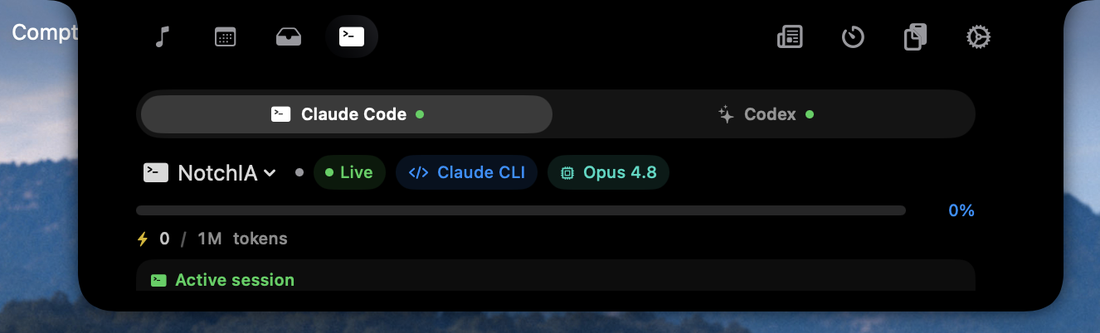
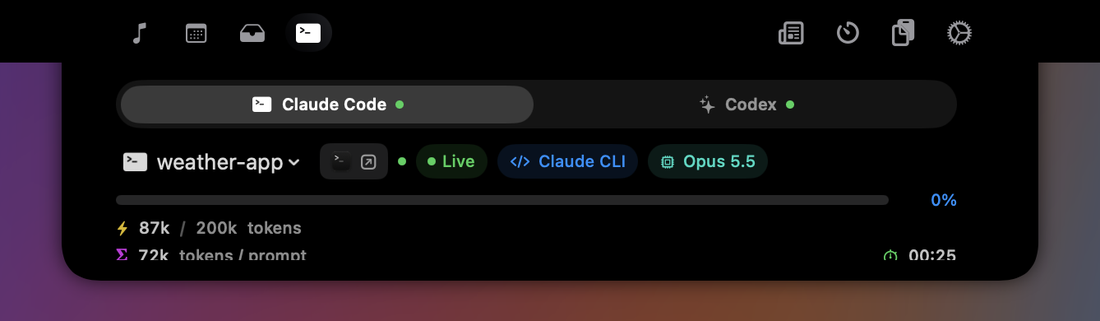
Capture 01 refaite : onglet IA sur NotchIA 2.9.27
Session Claude Code de démo (projet fictif weather-app, Opus 5.5) à la place de l'ancienne
capture (Opus 4.8). Dimensions mises à jour sur les 13 pages qui l'affichent.

diff --git a/press.html b/press.html
@@ -121,7 +121,7 @@
   <h2 data-i18n="screens.title">Screenshots</h2>
   <p data-i18n="screens.note">Ready to publish, no credit required beyond “NotchIA”. Click a screenshot to download the full-resolution PNG.</p>
   <div class="screens-grid">
-    <figure><a href="press-kit/screenshots/01.png" download><picture><source srcset="press-kit/screenshots/01.webp" type="image/webp" /><img src="press-kit/screenshots/01.png" width="1100" height="333" loading="lazy" decoding="async" alt="NotchIA AI tab tracking live Claude Code and ChatGPT Codex sessions, with model, token count and activity state" /></picture></a><figcaption data-i18n="screens.c1">Live AI tracking : Claude Code and ChatGPT Codex</figcaption></figure>
+    <figure><a href="press-kit/screenshots/01.png" download><picture><source srcset="press-kit/screenshots/01.webp" type="image/webp" /><img src="press-kit/screenshots/01.png" width="1100" height="321" loading="lazy" decoding="async" alt="NotchIA AI tab tracking live Claude Code and ChatGPT Codex sessions, with model, token count and activity state" /></picture></a><figcaption data-i18n="screens.c1">Live AI tracking : Claude Code and ChatGPT Codex</figcaption></figure>
     <figure><a href="press-kit/screenshots/02.png" download><picture><source srcset="press-kit/screenshots/02.webp" type="image/webp" /><img src="press-kit/screenshots/02.png" width="1100" height="442" loading="lazy" decoding="async" alt="NotchIA Digest tab showing a news summary generated on-device by Apple Intelligence, next to the RSS source list" /></picture></a><figcaption data-i18n="screens.c2">Digest : on-device Apple Intelligence summary</figcaption></figure>
     <figure class="wide"><a href="press-kit/screenshots/03.png" download><picture><source srcset="press-kit/screenshots/03.webp" type="image/webp" /><img src="press-kit/screenshots/03.png" width="1100" height="96" loading="lazy" decoding="async" alt="Closed MacBook notch showing the clock, the current Claude Code state and a running timer" /></picture></a><figcaption data-i18n="screens.c3">Closed notch : status at a glance</figcaption></figure>
     <figure><a href="press-kit/screenshots/04.png" download><picture><source srcset="press-kit/screenshots/04.webp" type="image/webp" /><img src="press-kit/screenshots/04.png" width="1100" height="321" loading="lazy" decoding="async" alt="NotchIA Shelf tab with drop zones for file conversion, PDF summary and video link download" /></picture></a><figcaption data-i18n="screens.c4">Shelf : convert, summarise, drop files</figcaption></figure>

diff --git a/blog/mejor-app-muesca-macbook-2026.html b/blog/mejor-app-muesca-macbook-2026.html
@@ -264,7 +264,7 @@
   <p class="eyebrow mb-4">Comparativa central 2026</p>
   <h1 class="font-display text-5xl md:text-6xl leading-tight mb-5">Mejor app para la muesca del MacBook 2026: comparativa completa</h1>
   <p class="text-xl text-cream/75 max-w-3xl">NotchIA es la opción más completa para aprovechar la muesca del MacBook en 2026 (versión 2.9.17, agosto de 2026): IA en vivo, Apple Intelligence on-device, multimedia, calendario, archivos y HUD del sistema. Las demás apps siguen teniendo sentido si tu necesidad es más visual, solo multimedia o minimalista.</p>
-  <figure style="margin:1.6rem 0 0.4rem;border:1px solid rgba(237,232,220,.12);border-radius:14px;overflow:hidden;background:#12151C"><picture><source srcset="../press-kit/screenshots/01.webp" type="image/webp" /><img src="../press-kit/screenshots/01.png" width="1100" height="333" loading="lazy" decoding="async" style="width:100%;height:auto;display:block" alt="La pestaña IA de NotchIA: seguimiento en directo de una sesión de Claude Code con modelo, tokens y estado de actividad." /></picture></figure>
+  <figure style="margin:1.6rem 0 0.4rem;border:1px solid rgba(237,232,220,.12);border-radius:14px;overflow:hidden;background:#12151C"><picture><source srcset="../press-kit/screenshots/01.webp" type="image/webp" /><img src="../press-kit/screenshots/01.png" width="1100" height="321" loading="lazy" decoding="async" style="width:100%;height:auto;display:block" alt="La pestaña IA de NotchIA: seguimiento en directo de una sesión de Claude Code con modelo, tokens y estado de actividad." /></picture></figure>
   <div class="table-wrap">
   <table>
     <thead><tr><th>App</th><th>Precio</th><th>Plataforma</th><th>Posición diferenciadora</th><th>Módulos clave</th><th>IA on-device</th><th>Seguimiento Claude Code/Codex</th><th>Código abierto</th><th>Veredicto de uso</th></tr></thead>

diff --git a/blog/meilleure-app-encoche-macbook-2026.html b/blog/meilleure-app-encoche-macbook-2026.html
@@ -264,7 +264,7 @@
   <p class="eyebrow mb-4">Comparatif central 2026</p>
   <h1 class="font-display text-5xl md:text-6xl leading-tight mb-5">La meilleure app pour l'encoche du Mac (MacBook) en 2026 : comparatif complet</h1>
   <p class="text-xl text-cream/75 max-w-3xl">NotchIA est le choix le plus complet pour exploiter l'encoche du MacBook en 2026 (version 2.9.17, août 2026) : IA en direct, Apple Intelligence on-device, médias, calendrier, fichiers et HUD système. Les autres apps restent utiles si ton besoin est plus visuel, plus média ou plus minimal.</p>
-  <figure style="margin:1.6rem 0 0.4rem;border:1px solid rgba(237,232,220,.12);border-radius:14px;overflow:hidden;background:#12151C"><picture><source srcset="../press-kit/screenshots/01.webp" type="image/webp" /><img src="../press-kit/screenshots/01.png" width="1100" height="333" loading="lazy" decoding="async" style="width:100%;height:auto;display:block" alt="L'onglet IA de NotchIA : suivi en direct d'une session Claude Code, avec modèle, jetons et état d'activité." /></picture></figure>
+  <figure style="margin:1.6rem 0 0.4rem;border:1px solid rgba(237,232,220,.12);border-radius:14px;overflow:hidden;background:#12151C"><picture><source srcset="../press-kit/screenshots/01.webp" type="image/webp" /><img src="../press-kit/screenshots/01.png" width="1100" height="321" loading="lazy" decoding="async" style="width:100%;height:auto;display:block" alt="L'onglet IA de NotchIA : suivi en direct d'une session Claude Code, avec modèle, jetons et état d'activité." /></picture></figure>
   <div class="table-wrap">
   <table>
     <thead><tr><th>App</th><th>Prix</th><th>Plateforme</th><th>Position différenciante</th><th>Modules clés</th><th>IA on-device</th><th>Suivi Claude Code/Codex</th><th>Open source</th><th>Verdict d’usage</th></tr></thead>

diff --git a/blog/beste-macbook-notch-app-2026.html b/blog/beste-macbook-notch-app-2026.html
@@ -264,7 +264,7 @@
   <p class="eyebrow mb-4">Zentraler Vergleich 2026</p>
   <h1 class="font-display text-5xl md:text-6xl leading-tight mb-5">Beste MacBook-Notch-App 2026: vollständiger Vergleich</h1>
   <p class="text-xl text-cream/75 max-w-3xl">NotchIA ist die umfassendste Wahl, um die MacBook-Notch 2026 zu nutzen (Version 2.9.17, August 2026): Live-KI, on-device Apple Intelligence, Medien, Kalender, Dateien und System-HUD. Andere Apps bleiben sinnvoll, wenn dein Bedarf eher visuell, rein medienbezogen oder minimal ist.</p>
-  <figure style="margin:1.6rem 0 0.4rem;border:1px solid rgba(237,232,220,.12);border-radius:14px;overflow:hidden;background:#12151C"><picture><source srcset="../press-kit/screenshots/01.webp" type="image/webp" /><img src="../press-kit/screenshots/01.png" width="1100" height="333" loading="lazy" decoding="async" style="width:100%;height:auto;display:block" alt="Der KI-Tab von NotchIA: Live-Tracking einer Claude-Code-Sitzung mit Modell, Tokens und Aktivitätsstatus." /></picture></figure>
+  <figure style="margin:1.6rem 0 0.4rem;border:1px solid rgba(237,232,220,.12);border-radius:14px;overflow:hidden;background:#12151C"><picture><source srcset="../press-kit/screenshots/01.webp" type="image/webp" /><img src="../press-kit/screenshots/01.png" width="1100" height="321" loading="lazy" decoding="async" style="width:100%;height:auto;display:block" alt="Der KI-Tab von NotchIA: Live-Tracking einer Claude-Code-Sitzung mit Modell, Tokens und Aktivitätsstatus." /></picture></figure>
   <div class="table-wrap">
   <table>
     <thead><tr><th>App</th><th>Preis</th><th>Plattform</th><th>Differenzierende Position</th><th>Schlüsselmodule</th><th>On-device KI</th><th>Claude Code/Codex Tracking</th><th>Open Source</th><th>Nutzungs-Verdikt</th></tr></thead>

diff --git a/blog/best-macbook-notch-app-2026.html b/blog/best-macbook-notch-app-2026.html
@@ -264,7 +264,7 @@
   <p class="eyebrow mb-4">Central comparison 2026</p>
   <h1 class="font-display text-5xl md:text-6xl leading-tight mb-5">Best MacBook notch app in 2026: full comparison</h1>
   <p class="text-xl text-cream/75 max-w-3xl">NotchIA is the most complete choice for using the MacBook notch in 2026 (version 2.9.17, August 2026): live AI, on-device Apple Intelligence, media, calendar, files and system HUD. Other apps still make sense when your need is more visual, media-only or minimal.</p>
-  <figure style="margin:1.6rem 0 0.4rem;border:1px solid rgba(237,232,220,.12);border-radius:14px;overflow:hidden;background:#12151C"><picture><source srcset="../press-kit/screenshots/01.webp" type="image/webp" /><img src="../press-kit/screenshots/01.png" width="1100" height="333" loading="lazy" decoding="async" style="width:100%;height:auto;display:block" alt="NotchIA's AI tab: live tracking of a Claude Code session with model, tokens and activity state." /></picture></figure>
+  <figure style="margin:1.6rem 0 0.4rem;border:1px solid rgba(237,232,220,.12);border-radius:14px;overflow:hidden;background:#12151C"><picture><source srcset="../press-kit/screenshots/01.webp" type="image/webp" /><img src="../press-kit/screenshots/01.png" width="1100" height="321" loading="lazy" decoding="async" style="width:100%;height:auto;display:block" alt="NotchIA's AI tab: live tracking of a Claude Code session with model, tokens and activity state." /></picture></figure>
   <div class="table-wrap">
   <table>
     <thead><tr><th>App</th><th>Pricing</th><th>Platform</th><th>Differentiating position</th><th>Key modules</th><th>On-device AI</th><th>Claude Code/Codex tracking</th><th>Open source</th><th>Usage verdict</th></tr></thead>

diff --git a/es/index.html b/es/index.html
@@ -1548,7 +1548,7 @@
 
       <div class="mx-auto max-w-4xl px-5 sm:px-8 lg:px-10 mt-10 sm:mt-14">
         <figure class="shot-home mb-4 sm:mb-5"><picture><source srcset="../press-kit/screenshots/09.webp" type="image/webp"><img src="../press-kit/screenshots/09.png" width="970" height="118" loading="lazy" decoding="async" data-i18n-alt="shot.iaclosed" alt="La muesca cerrada mostrando el estado de la sesión de Claude Code: listo, tiempo transcurrido y tokens consumidos."></picture></figure>
-        <figure class="shot-home"><picture><source srcset="../press-kit/screenshots/01.webp" type="image/webp"><img src="../press-kit/screenshots/01.png" width="1100" height="333" loading="lazy" decoding="async" data-i18n-alt="shot.ia" alt="La pestaña IA de NotchIA siguiendo una sesión de Claude Code en directo: modelo, tokens y estado de actividad."></picture></figure>
+        <figure class="shot-home"><picture><source srcset="../press-kit/screenshots/01.webp" type="image/webp"><img src="../press-kit/screenshots/01.png" width="1100" height="321" loading="lazy" decoding="async" data-i18n-alt="shot.ia" alt="La pestaña IA de NotchIA siguiendo una sesión de Claude Code en directo: modelo, tokens y estado de actividad."></picture></figure>
       </div>
     </section>
 

diff --git a/de/index.html b/de/index.html
@@ -1548,7 +1548,7 @@
 
       <div class="mx-auto max-w-4xl px-5 sm:px-8 lg:px-10 mt-10 sm:mt-14">
         <figure class="shot-home mb-4 sm:mb-5"><picture><source srcset="../press-kit/screenshots/09.webp" type="image/webp"><img src="../press-kit/screenshots/09.png" width="970" height="118" loading="lazy" decoding="async" data-i18n-alt="shot.iaclosed" alt="Die geschlossene Notch mit dem Status der Claude-Code-Sitzung: bereit, verstrichene Zeit und verbrauchte Tokens."></picture></figure>
-        <figure class="shot-home"><picture><source srcset="../press-kit/screenshots/01.webp" type="image/webp"><img src="../press-kit/screenshots/01.png" width="1100" height="333" loading="lazy" decoding="async" data-i18n-alt="shot.ia" alt="Der KI-Tab von NotchIA verfolgt eine laufende Claude-Code-Sitzung: Modell, Tokens und Aktivitätsstatus."></picture></figure>
+        <figure class="shot-home"><picture><source srcset="../press-kit/screenshots/01.webp" type="image/webp"><img src="../press-kit/screenshots/01.png" width="1100" height="321" loading="lazy" decoding="async" data-i18n-alt="shot.ia" alt="Der KI-Tab von NotchIA verfolgt eine laufende Claude-Code-Sitzung: Modell, Tokens und Aktivitätsstatus."></picture></figure>
       </div>
     </section>
 

diff --git a/index.html b/index.html
@@ -1588,7 +1588,7 @@
 
       <div class="mx-auto max-w-4xl px-5 sm:px-8 lg:px-10 mt-10 sm:mt-14">
         <figure class="shot-home mb-4 sm:mb-5"><picture><source srcset="press-kit/screenshots/09.webp" type="image/webp" /><img src="press-kit/screenshots/09.png" width="970" height="118" loading="lazy" decoding="async" data-i18n-alt="shot.iaclosed" alt="L'encoche fermée affichant l'état de la session Claude Code : prêt, temps écoulé et jetons consommés." /></picture></figure>
-        <figure class="shot-home"><picture><source srcset="press-kit/screenshots/01.webp" type="image/webp" /><img src="press-kit/screenshots/01.png" width="1100" height="333" loading="lazy" decoding="async" data-i18n-alt="shot.ia" alt="L'onglet IA de NotchIA suivant une session Claude Code en direct : modèle, jetons et état d'activité." /></picture></figure>
+        <figure class="shot-home"><picture><source srcset="press-kit/screenshots/01.webp" type="image/webp" /><img src="press-kit/screenshots/01.png" width="1100" height="321" loading="lazy" decoding="async" data-i18n-alt="shot.ia" alt="L'onglet IA de NotchIA suivant une session Claude Code en direct : modèle, jetons et état d'activité." /></picture></figure>
       </div>
     </section>
 

diff --git a/en/index.html b/en/index.html
@@ -1548,7 +1548,7 @@
 
       <div class="mx-auto max-w-4xl px-5 sm:px-8 lg:px-10 mt-10 sm:mt-14">
         <figure class="shot-home mb-4 sm:mb-5"><picture><source srcset="../press-kit/screenshots/09.webp" type="image/webp"><img src="../press-kit/screenshots/09.png" width="970" height="118" loading="lazy" decoding="async" data-i18n-alt="shot.iaclosed" alt="The closed notch showing the Claude Code session state: ready, elapsed time and token usage."></picture></figure>
-        <figure class="shot-home"><picture><source srcset="../press-kit/screenshots/01.webp" type="image/webp"><img src="../press-kit/screenshots/01.png" width="1100" height="333" loading="lazy" decoding="async" data-i18n-alt="shot.ia" alt="NotchIA AI tab tracking a live Claude Code session: model, tokens and activity state."></picture></figure>
+        <figure class="shot-home"><picture><source srcset="../press-kit/screenshots/01.webp" type="image/webp"><img src="../press-kit/screenshots/01.png" width="1100" height="321" loading="lazy" decoding="async" data-i18n-alt="shot.ia" alt="NotchIA AI tab tracking a live Claude Code session: model, tokens and activity state."></picture></figure>
       </div>
     </section>
 

diff --git a/es/features.html b/es/features.html
@@ -494,7 +494,7 @@
   <!-- IA CODE -->
   <h2 data-i18n-html="iacode.title">Pestaña <span class="grad-text">IA Code</span> <span class="badge-pro">💎 Pro</span></h2>
   <p class="lede" data-i18n="iacode.lede">Tu asistente de código, en la muesca, sin alt-tab.</p>
-  <figure class="shot-fig"><picture><source srcset="../press-kit/screenshots/01.webp" type="image/webp"><img src="../press-kit/screenshots/01.png" width="1100" height="333" loading="lazy" decoding="async" data-i18n-alt="shot.iacode" alt="La pestaña IA de NotchIA con una sesión de Claude Code en directo: modelo, tokens consumidos y estado de actividad."></picture></figure>
+  <figure class="shot-fig"><picture><source srcset="../press-kit/screenshots/01.webp" type="image/webp"><img src="../press-kit/screenshots/01.png" width="1100" height="321" loading="lazy" decoding="async" data-i18n-alt="shot.iacode" alt="La pestaña IA de NotchIA con una sesión de Claude Code en directo: modelo, tokens consumidos y estado de actividad."></picture></figure>
   <div class="feature-grid cols-2">
     <div class="callout">
       <h3 data-i18n="iacode.h1">Proveedores soportados</h3>

diff --git a/features.html b/features.html
@@ -484,7 +484,7 @@
   <!-- IA CODE -->
   <h2 data-i18n-html="iacode.title">Onglet <span class="grad-text">IA Code</span> <span class="badge-pro">💎 Pro</span></h2>
   <p class="lede" data-i18n="iacode.lede">Ton assistant de code, dans l'encoche, sans alt-tab.</p>
-  <figure class="shot-fig"><picture><source srcset="press-kit/screenshots/01.webp" type="image/webp" /><img src="press-kit/screenshots/01.png" width="1100" height="333" loading="lazy" decoding="async" data-i18n-alt="shot.iacode" alt="L'onglet IA de NotchIA affichant une session Claude Code en direct : modèle, jetons consommés et état d'activité." /></picture></figure>
+  <figure class="shot-fig"><picture><source srcset="press-kit/screenshots/01.webp" type="image/webp" /><img src="press-kit/screenshots/01.png" width="1100" height="321" loading="lazy" decoding="async" data-i18n-alt="shot.iacode" alt="L'onglet IA de NotchIA affichant une session Claude Code en direct : modèle, jetons consommés et état d'activité." /></picture></figure>
   <div class="feature-grid cols-2">
     <div class="callout">
       <h3 data-i18n="iacode.h1">Providers supportés</h3>

diff --git a/de/features.html b/de/features.html
@@ -494,7 +494,7 @@
   <!-- IA CODE -->
   <h2 data-i18n-html="iacode.title"><span class="grad-text">AI Code</span>-Tab <span class="badge-pro">💎 Pro</span></h2>
   <p class="lede" data-i18n="iacode.lede">Dein Code-Assistent, in der Aussparung, ohne Alt-Tab.</p>
-  <figure class="shot-fig"><picture><source srcset="../press-kit/screenshots/01.webp" type="image/webp"><img src="../press-kit/screenshots/01.png" width="1100" height="333" loading="lazy" decoding="async" data-i18n-alt="shot.iacode" alt="Der KI-Tab von NotchIA mit einer laufenden Claude-Code-Sitzung: Modell, verbrauchte Tokens und Aktivitätsstatus."></picture></figure>
+  <figure class="shot-fig"><picture><source srcset="../press-kit/screenshots/01.webp" type="image/webp"><img src="../press-kit/screenshots/01.png" width="1100" height="321" loading="lazy" decoding="async" data-i18n-alt="shot.iacode" alt="Der KI-Tab von NotchIA mit einer laufenden Claude-Code-Sitzung: Modell, verbrauchte Tokens und Aktivitätsstatus."></picture></figure>
   <div class="feature-grid cols-2">
     <div class="callout">
       <h3 data-i18n="iacode.h1">Unterstützte Provider</h3>
